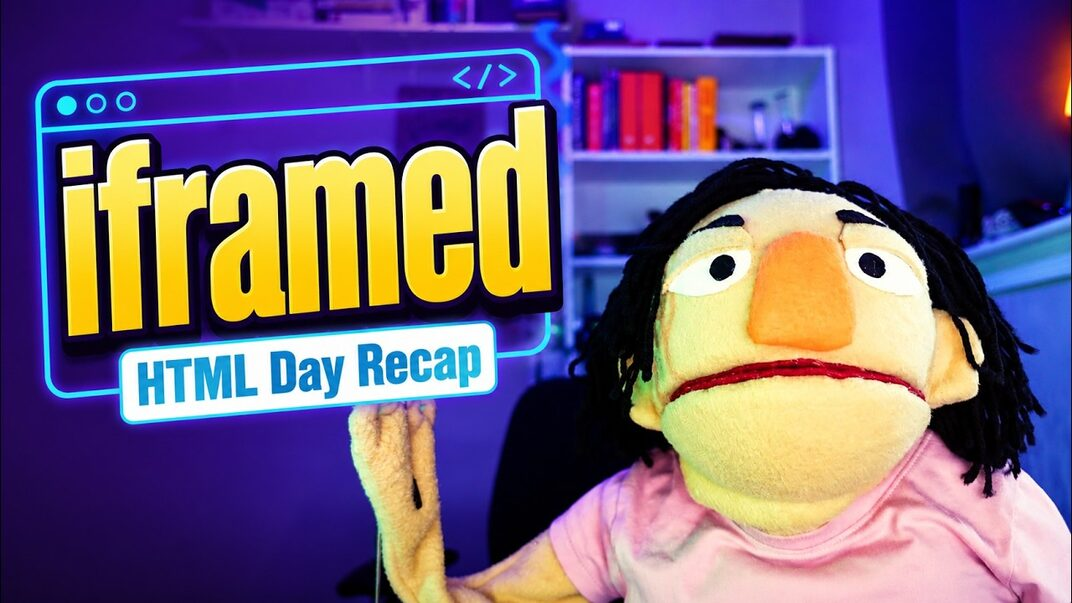
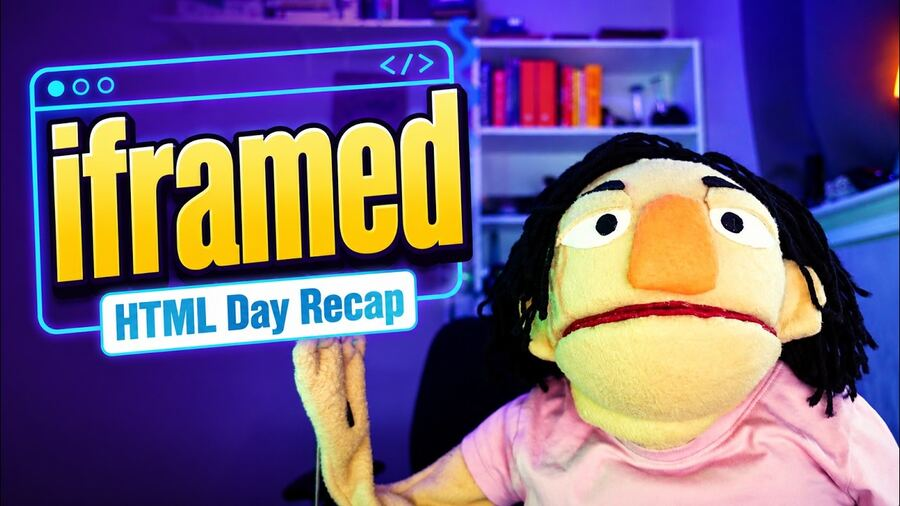
fix(newsletter): centre shell in Bento, link unsubscribe, shrink art
Bento's editor preview injects `table {max-width:650px}` and strips the
`align="center"` attribute the shell relied on, so the email rendered
left-aligned there. Inline `margin:0 auto` outranks that stylesheet and the
attribute still covers Outlook, so both paths centre now.

- The masthead disclaimer's "unsubscribe" was flat text; only the footer was
  linked. Both now target {{ visitor.unsubscribe_url }}, styled muted so the
  link doesn't shout inside a de-emphasised block. inlineLinks() accepts Liquid
  merge fields as targets and takes an optional link style.
- Set Bento's preview_text field. The hidden preheader div only covers clients
  that scrape the body, and Bento's pre-send check flagged it missing.
- Issue art 1072w -> 900w at q78 4:2:0: 375 KB -> 274 KB, cutting the email
  from ~502 KB to ~390 KB. Display width is 536px, so 900w is still 1.68x.
  Stopped short of 800w (1.49x) to keep the pop-up thumb's text overlay crisp.

Claude-Session: https://claude.ai/code/session_0195eGDDUQfv4q4U7gqpvsis

Changed region(s): [[0.9956, 0.1186, 1.0, 0.1779]]

diff --git a/scripts/create-monthly-broadcast.js b/scripts/create-monthly-broadcast.js
@@ -116,11 +116,18 @@ const headFont = `font-family:'Baloo 2','DM Sans',-apple-system,BlinkMacSystemFo
 const link = (url, text) =>
   `<a href="${url}" style="color:${BRAND.coral};font-weight:bold;text-decoration:underline;">${text || url}</a>`;
 
+// Quiet variant for de-emphasised blocks (the masthead disclaimer, the footer)
+// where a bold coral link would shout louder than the copy around it.
+const mutedLink = (url, text) =>
+  `<a href="${url}" style="color:${BRAND.muted};text-decoration:underline;">${text || url}</a>`;
+
 // Rewrite markdown-style [text](url) into branded anchors. Content files use the
 // short form so link styling lives here rather than being copy-pasted into every
-// issue — change the palette once and past issues re-render correctly.
-function inlineLinks(html) {
-  return html.replace(/\[([^\]]+)\]\((https?:\/\/[^)\s]+)\)/g, (_, text, url) => link(url, text));
+// issue — change the palette once and past issues re-render correctly. Liquid
+// tags are accepted as targets so content can point at Bento merge fields such
+// as {{ visitor.unsubscribe_url }}.
+function inlineLinks(html, linkFn = link) {
+  return html.replace(/\[([^\]]+)\]\((https?:\/\/[^)\s]+|\{\{[^}]+\}\})\)/g, (_, text, url) => linkFn(url, text));
 }
 
 // Body copy in content.json is trusted HTML — the file is hand-authored, not
@@ -266,7 +273,11 @@ function renderHtml(content, links, preheader) {
   <div style="display:none;max-height:0;overflow:hidden;opacity:0;">${escapeHtml(preheader)}</div>
   <table role="presentation" width="100%" cellpadding="0" cellspacing="0" style="background:${BRAND.pageBg};">
     <tr><td align="center" style="padding:24px 12px;">
-      <table role="presentation" width="600" cellpadding="0" cellspacing="0" style="max-width:600px;width:100%;background:#ffffff;border-radius:8px;overflow:hidden;">
+      <!-- align + inline auto margins both centre the shell. The attribute alone
+           is not enough: Bento's editor preview strips align and applies its own
+           table {max-width:650px}, which left-aligns the email. Inline margins
+           outrank that stylesheet, and Outlook honours the attribute. -->
+      <table role="presentation" width="600" align="center" cellpadding="0" cellspacing="0" style="max-width:600px;width:100%;margin:0 auto;background:#ffffff;border-radius:8px;overflow:hidden;">
         <tr>
           <td style="background:${BRAND.deep};padding:24px 32px;">
             <div style="${headFont};font-size:28px;font-weight:bold;color:#ffffff;">757tech Monthly</div>
@@ -277,7 +288,7 @@ function renderHtml(content, links, preheader) {
             <table role="presentation" width="100%" cellpadding="0" cellspacing="0" style="margin:0 0 20px 0;">
               <tr>
                 <td style="border-left:3px solid ${BRAND.line};padding:2px 0 2px 14px;">
-                  <div style="${bodyFont};font-size:14px;line-height:1.5;color:${BRAND.muted};">${escapeHtml(content.disclaimer || '')}</div>
+                  <div style="${bodyFont};font-size:14px;line-height:1.5;color:${BRAND.muted};">${inlineLinks(escapeHtml(content.disclaimer || ''), mutedLink)}</div>
                 </td>
               </tr>
             </table>
@@ -340,6 +351,10 @@ async function main() {
       {
         name: content.broadcastName,
         subject: content.subject,
+        // Bento surfaces its own preview_text field in the inbox; the hidden div
+        // in the HTML only covers clients that fall back to scraping the body.
+        // Setting both keeps Bento's pre-send check happy and the preview honest.
+        preview_text: preheader,
         content: html,
         type: 'plain',
         from: {
